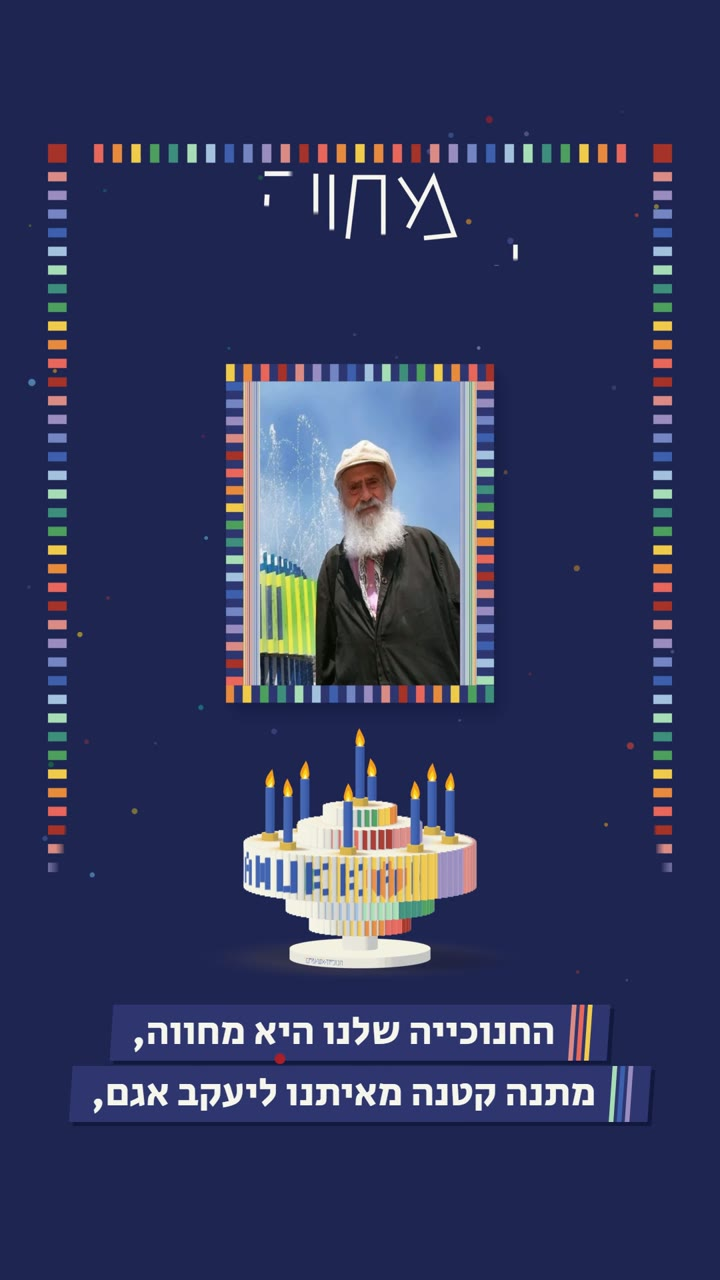
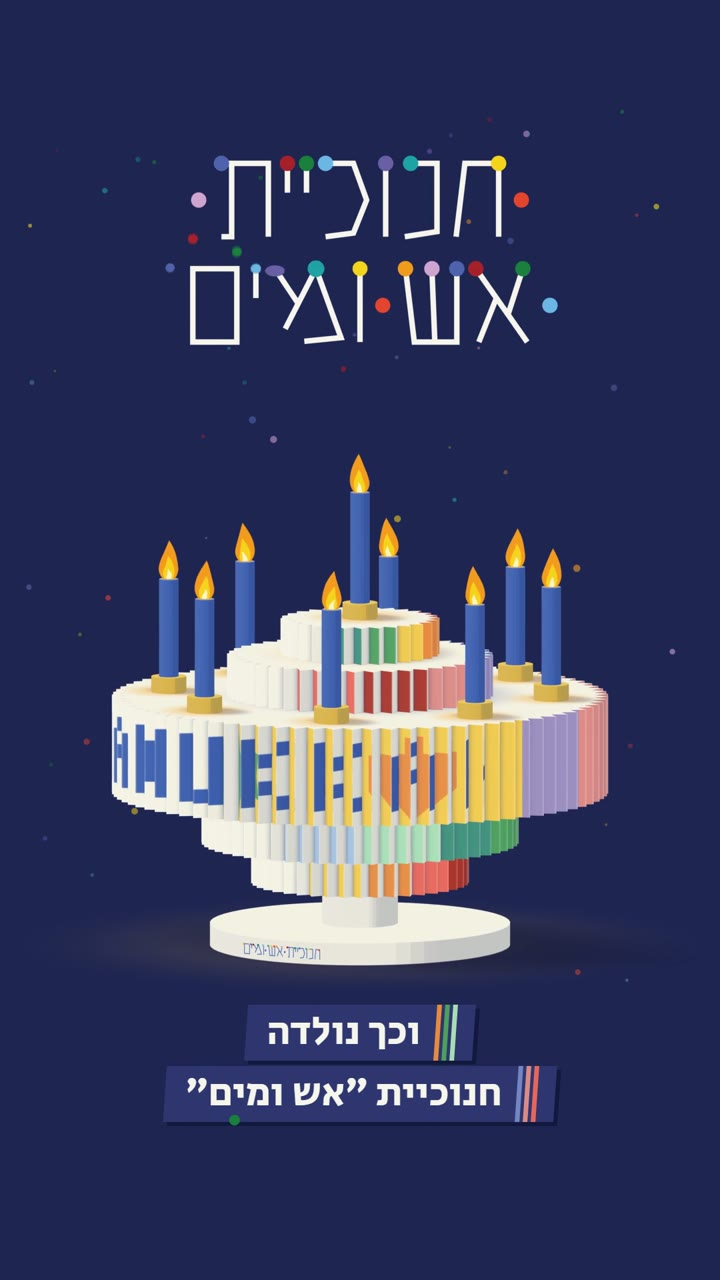
feat: autoplay the film muted on the first visit, poster at 1:56

Changed region(s): [[0.0917, 0.0938, 0.9472, 0.875], [0.0611, 0.0938, 0.0917, 0.6875]]

diff --git a/index.html b/index.html
@@ -35,7 +35,11 @@ main { max-width: 560px; margin: 0 auto; padding: 28px 16px 40px; }
 .tagline { text-align: center; color: var(--muted); font-weight: 600; margin: 0 0 22px; }
 .film { margin: 0 auto 28px; max-width: 380px; border-radius: 14px; overflow: hidden; background: var(--navy);
   box-shadow: 0 1px 0 rgba(35, 44, 94, .08), 0 18px 40px -18px rgba(35, 44, 94, .45); }
+.film { position: relative; }
 .film video { display: block; width: 100%; aspect-ratio: 9 / 16; background: var(--navy); }
+.unmute { position: absolute; top: 12px; left: 50%; transform: translateX(-50%); border: 0; border-radius: 999px; padding: 10px 18px;
+  background: #fff; color: var(--navy); font: 700 1rem Assistant, "Segoe UI", Arial, sans-serif; box-shadow: 0 4px 14px rgba(0, 0, 0, .25); cursor: pointer; }
+.unmute[hidden] { display: none; }
 h2 { font-size: 1.25rem; font-weight: 800; color: var(--navy); margin: 26px 0 6px; display: flex; align-items: center; gap: 10px; }
 h2::before { content: ""; width: 14px; height: 14px; border-radius: 50%; background: var(--dot, var(--red)); flex: none; }
 p { margin: 0 0 10px; }
@@ -54,10 +58,11 @@ footer { text-align: center; color: var(--muted); font-size: .9rem; margin-top: 
   <p class="tagline">חנוכייה של ליבי ונעמי, בהשראת המזרקה "אש ומים" בכיכר דיזנגוף</p>
 
   <figure class="film">
-    <video controls playsinline preload="metadata" poster="site/poster.jpg">
+    <video id="film" controls playsinline preload="metadata" poster="site/poster.jpg">
       <source src="video/v2/final/agam_v2.mp4" type="video/mp4">
       הדפדפן לא מצליח להציג את הסרטון. <a href="video/v2/final/agam_v2.mp4">אפשר להוריד אותו כאן</a>.
     </video>
+    <button class="unmute" id="unmute" type="button" hidden>🔊 הפעילו קול</button>
   </figure>
 
   <h2 style="--dot: var(--teal)">על החנוכייה</h2>
@@ -73,5 +78,22 @@ footer { text-align: center; color: var(--muted); font-size: .9rem; margin-top: 
   <footer>ליבי ונעמי קפלן · בית ספר כצנלסון, גבעתיים · חנוכה תשפ"ז</footer>
 </main>
 <div class="stripes" aria-hidden="true"></div>
+<script>
+/* First visit: start the film by itself. Browsers allow that only without sound, so it starts muted
+   (the subtitles are in the picture) with a button to turn the sound on. Later visits wait for a tap. */
+(() => {
+  const SEEN_KEY = 'agam-film-seen';
+  const film = document.getElementById('film');
+  const unmute = document.getElementById('unmute');
+  let seen = false;
+  try { seen = localStorage.getItem(SEEN_KEY) === '1'; localStorage.setItem(SEEN_KEY, '1'); } catch (error) { seen = false; }
+  if (seen) return;
+  film.muted = true;
+  film.play().then(() => { unmute.hidden = false; }).catch(() => { film.muted = false; });
+  const turnSoundOn = () => { film.muted = false; unmute.hidden = true; };
+  unmute.addEventListener('click', turnSoundOn);
+  film.addEventListener('volumechange', () => { if (!film.muted) unmute.hidden = true; });
+})();
+</script>
 </body>
 </html>
